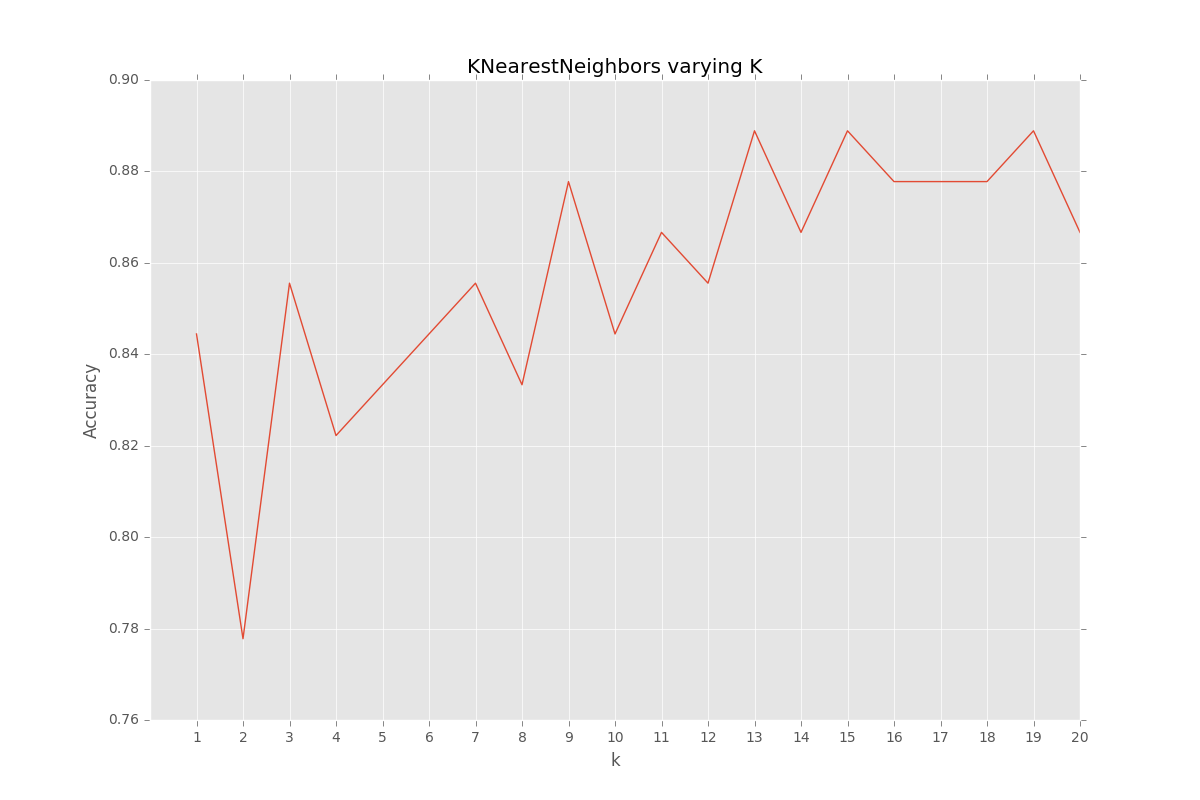
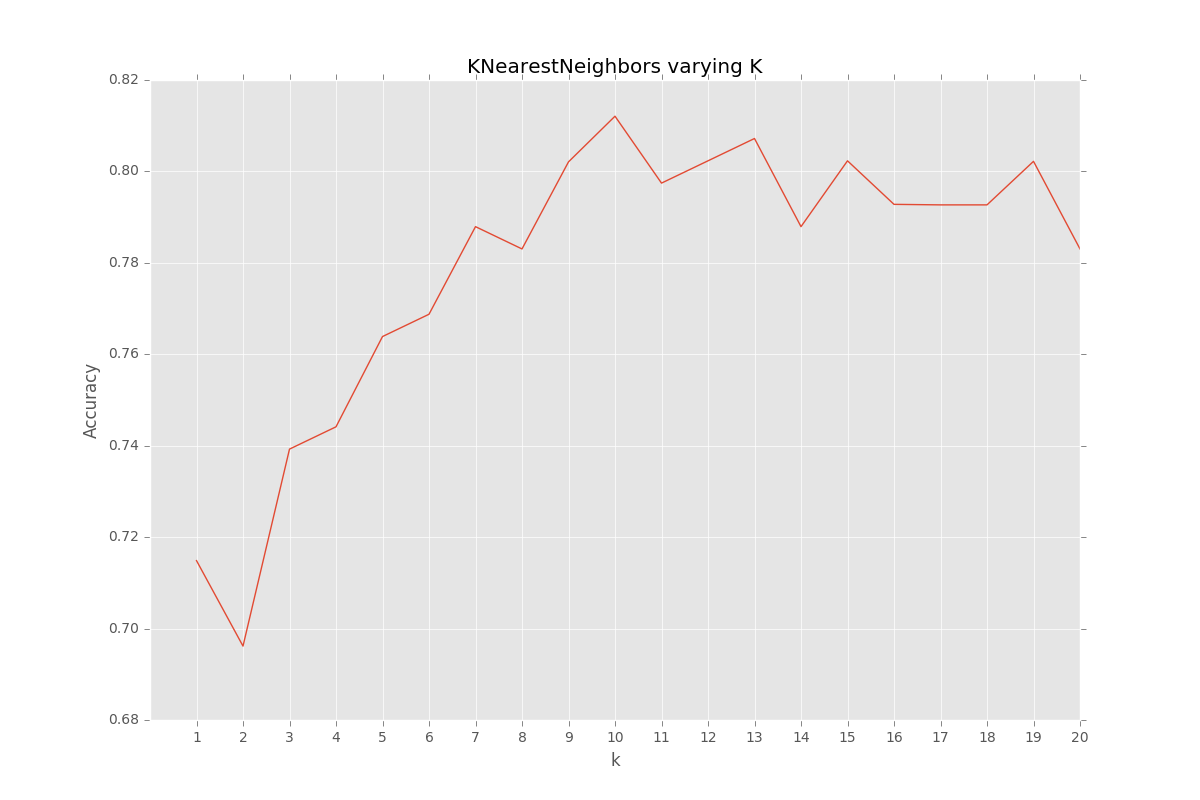
update readme

diff --git a/hd_knn.py b/hd_knn.py
@@ -112,7 +112,7 @@ def find_k(max_k, splits, use_kfolds=False):
     ax.set_ylabel('Accuracy')
     ax.set_title('KNearestNeighbors varying K')
     ax.set_xticks(range(1, max_k+1))
-    plt.savefig('find_k.png')
+    plt.savefig('./imgs/find_k.png')
     plt.show()
 
 def scree_plot(pca, title=None):
@@ -163,7 +163,7 @@ if __name__ == '__main__':
     # scree_plot(pca, title='Principal Component Analysis')
 
     'print results of k_folds on knn module'
-    print 'kfolds,', train_score_one([reduced_data, pca.transform(x_test), y_train, y_test], k=1, use_kfolds=True)
+    # print 'kfolds,', train_score_one([reduced_data, pca.transform(x_test), y_train, y_test], k=1, use_kfolds=True)
 
     'PCA occurs here'
     knn.fit(reduced_data, y_train)
@@ -171,4 +171,4 @@ if __name__ == '__main__':
     print ConfusionMat(y_test, knn.predict(pca.transform(x_test)))
 
     'uncomment for running find_k function'
-    # find_k(max_k=20, splits=[reduced_data, pca.transform(x_test), y_train, y_test], use_kfolds=False)
+    find_k(max_k=20, splits=[reduced_data, pca.transform(x_test), y_train, y_test], use_kfolds=True)

diff --git a/README.md b/README.md
@@ -1,22 +1,83 @@
-<center><h1> Predicting Heart Disease </h1> <h4>using KNearestNeighbors classifier</h4></center>
+<center><h1> Predicting Heart Disease </h1> <h4>using KNearestNeighbors (KNN) classifier</h4></center>
 
 ---
 In this sprint, I use a KNearestNeighbors classifier to predict the presence of heart disease in patients from the [UCI processed Cleveland dataset](https://archive.ics.uci.edu/ml/machine-learning-databases/heart-disease/processed.cleveland.data).
 
-The baseline model with k=1 Nearest neighbor predicted at 58% accuracy. Below I walk you through my process of improving the model to 89% accuracy at the end of the sprint.
+The baseline model with k=1 Nearest neighbor predicted at 58% test accuracy. Below I walk you through my process of improving the model to 89% test accuracy at the end of the sprint.
+
+My main code file is [hd_knn.py](./hd_knn.py). Send questions or comments to gav.estenssoro@gmail.com.
 
 ---
-# Exploratory Data Analysis
+# Exploratory Data Analysis (EDA)
 
-The Jupyter (Ipython) notebook [(eda.ipynb)](./eda.ipynb) contains my code for this section.
+The Jupyter (Ipython) notebook [(eda.ipynb)](./eda.ipynb) contains my code for EDA.
 
-_Findings:_  
-Addressed the challenge of finding what each column corresponded to and which was the predictor column through some [Googling](http://archive.ics.uci.edu/ml/datasets/Heart+Disease).
+With some [Googling](http://archive.ics.uci.edu/ml/datasets/Heart+Disease) I first found what each column corresponded to and which column is the the predictor column ('num').
 
-EDA revealed missing data in 2 columns. I explored saving these data rows by replacing missing data with the feature’s mode (since these were categorical features). However this made the model predict worse. I ended up dropping the rows with missing data, loosing 6 of the 303 datapoints.
+There is missing data in 2 columns. I explored saving these data rows by replacing missing data with the feature’s mode (since these were categorical features). However this made the model predict worse. I ended up dropping the rows with missing data, loosing 6 of the 303 data points.
 
 I also plotted distributions. I cleaned the data so the data types aligned for the analysis portion.
 
-The predictor column (‘num’) contained 5 categories (0-4) making it difficult to perform a classification. Also the distribution of the predictor column showed extreme class imbalance. I found [instructions]((http://archive.ics.uci.edu/ml/datasets/Heart+Disease) that ‘0’ value indicates to presence of heart disease while 1-4 indicates possibility of heart disease. Therefore I mapped boolean values to this column which changed the 1-4 values to ‘1’.  Now this became a classification problem of identifying patient as not having heart disease (0 prediction) or having the presence of heart disease (1 prediction). Doing this also addressed the previous class imbalance problem so I no longer needed to explore options to address this such as stratification, oversampling, or synthetic minority oversampling technique (SMOTE).
+The predictor column (‘num’) contained 5 categories (0-4) making it difficult to perform a classification. Also the distribution of the predictor column showed extreme class imbalance. I found [instructions](http://archive.ics.uci.edu/ml/datasets/Heart+Disease) that a ‘0’ value indicates no presence of heart disease while 1-4 indicates possibility of heart disease. Therefore, I mapped boolean values to this column which changed the 1-4 values to ‘1’.  Now this became a classification problem of identifying patient as not having heart disease (0 prediction) or having the presence of heart disease (1 prediction). Doing this also addressed the previous class imbalance problem so I no longer needed to explore options to address this such as stratification, oversampling, or synthetic minority oversampling technique (SMOTE).
 
-Distribution of predictor ('num') before and after mapping boolean columns. ![boolean_map](./imgs/predictor_columns.png)
+Distribution of predictor ('num') before and after mapping boolean columns.
+
+![boolean_map](./imgs/predictor_column.png)
+
+---
+# The KNearestNeighbors Algorithm
+
+The pseudo-code for the KNN algorithm is as follows:
+```
+
+```
+
+Scikit-Learn's suite of python packages simplifies the implementation of this project and is used extensively. Again, my main code file is [hd_knn.py](./hd_knn.py).
+
+---
+# Scale the Data
+
+Ahhh the 'curse of dimensionality'. The core of the KNN algorithm is the distance to the nearest ‘k’ points. Each additional dimension (feature) drastically increases the distance between points thus affecting the model. In addition to that, in higher dimensions substantially more data points are needed to have the same data density than in smaller dimensions.
+
+A first step in combating the curse of dimensionality is scaling the data. Scaling subtracts the mean and also divides by 1 standard deviation. The distribution of each feature is now centered around zero. The step along substantially increases the predictive accuracy of the model.
+
+I also looked into dropping features that are loosely correlated. This however did not improve the accuracy of the model.
+
+---
+# More Dimensionality Reduction
+
+After scaling the data I used another dimensionality reduction technique called Principal Component Analysis (PCA). PCA essentially uses linear algebra techniques to identify the components with the most predictive powers. More specifically, it identifies components with the most variance. The more variance of a predictor then the more it allows the model to separate the data.
+
+From the chart below you see that 10 principal components account for >90% of the variance in the data. Moving forward in the model predictions, the data has been transformed to using 10 principal components.
+
+![PCA](./imgs/pca.png)
+
+
+---
+# Optimize k
+
+The hyper-parameter of KNN is k. To optimize k, I simply iterated k from 1-20 nearest neighbors and picked the k that maximized accuracy. From the chart below you can see that k=10 maximizes accuracy.
+
+![optimize_k](./imgs/find_k.png)
+
+Reminder: The final test accuracy is 89% this graph shows the k-folds validation accuracy on the trainging data where k=5.
+
+---
+# Recommendations
+
+ - Explore using other classifiers
+KNN models tend to underperform with categorical data
+    - Look into:  
+Random forest  
+Logistic regression  
+Support vector machine  
+ROC curve for selecting classifier
+
+
+- Include other data from data set. There are 76 features that go along with this dataset. This sprint only used 13 and the predictor column.
+
+- Cost benefit matrix for business analysis
+  - i.e. identify costs and benefits of FP, FN, TP, TN to select model to maximize business case
+
+- Optimize KNN distance metric in algorithm
+  - Consider weighting closer neighbors higher in the algorithm
